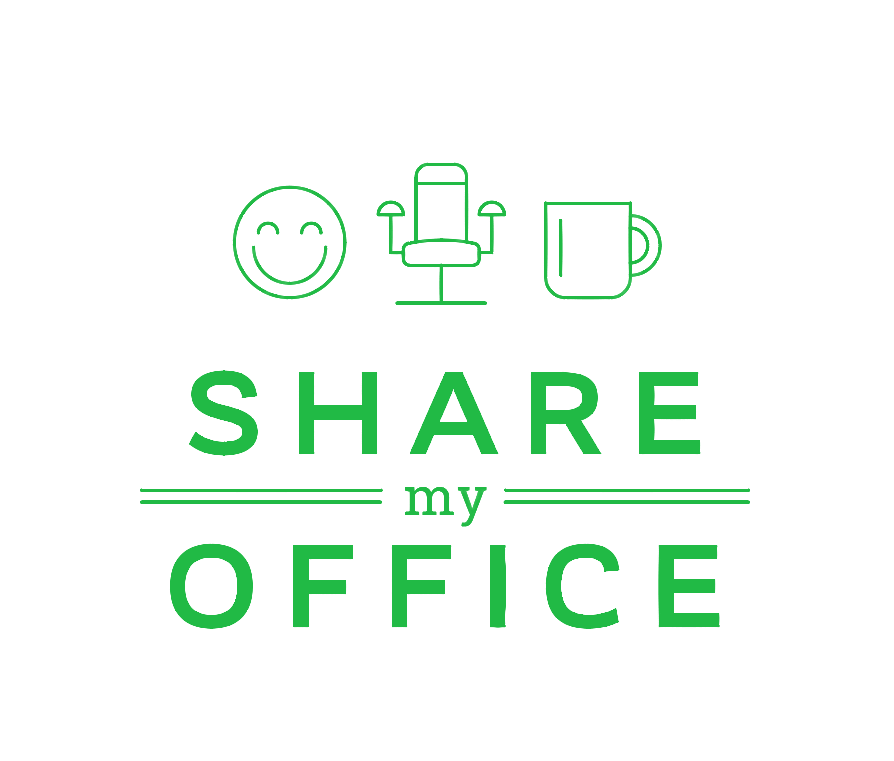
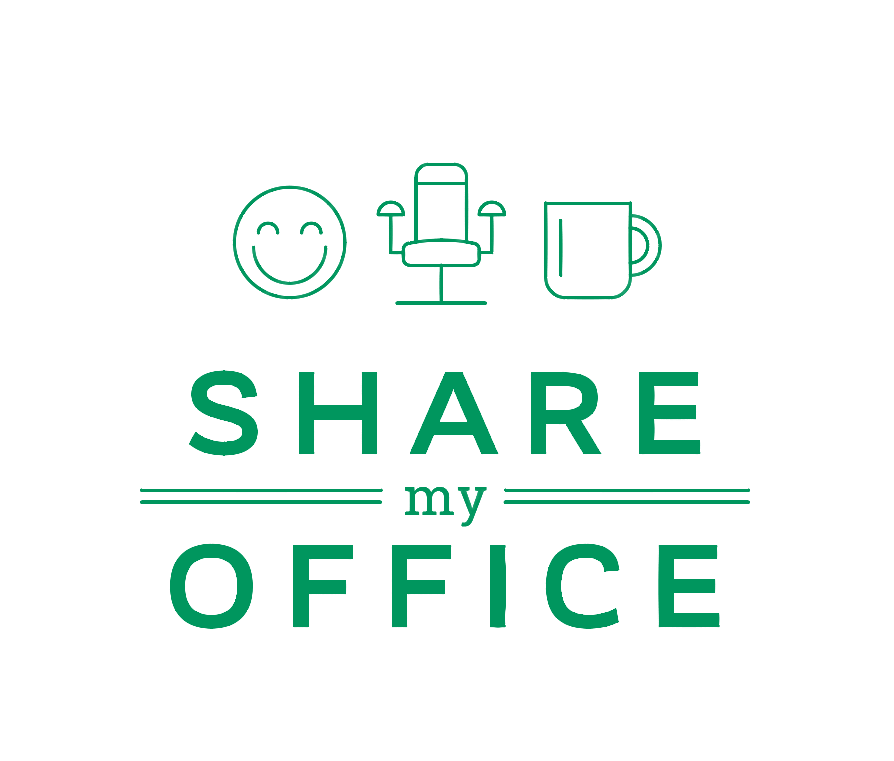
bnpp green

diff --git a/client/templates/office/office_script.js b/client/templates/office/office_script.js
@@ -25,23 +25,25 @@ Template.office.onRendered(function () {
       }
       return availability.available === true;
     });
-    let opens = availability.startTime.split(':');
-    let min = moment().startOf('day').add(opens[0], 'hours').add(opens[1], 'minutes').toDate();
-    let closes = availability.endTime.split(':');
-    let startMax = moment().startOf('day').add(closes[0], 'hours').add(closes[1], 'minutes').subtract(30, 'minutes').toDate();
-    let endMax = moment().startOf('day').add(closes[0], 'hours').add(closes[1], 'minutes').toDate();
-    let startTimeInput = $('#startTime').pickatime({
-      formatLabel: 'Commence à H:i',
-      min: min,
-      max: startMax,
-    });
-    startTimePicker = startTimeInput.pickatime('picker');
-    let endTimeInput = $('#endTime').pickatime({
-      formatLabel: 'F!in!i à H:i',
-      min: min,
-      max: endMax,
-    });
-    endTimePicker = endTimeInput.pickatime('picker');
+    if (availability) {
+      let opens = availability.startTime.split(':');
+      let min = moment().startOf('day').add(opens[0], 'hours').add(opens[1], 'minutes').toDate();
+      let closes = availability.endTime.split(':');
+      let startMax = moment().startOf('day').add(closes[0], 'hours').add(closes[1], 'minutes').subtract(30, 'minutes').toDate();
+      let endMax = moment().startOf('day').add(closes[0], 'hours').add(closes[1], 'minutes').toDate();
+      let startTimeInput = $('#startTime').pickatime({
+        formatLabel: 'Commence à H:i',
+        min: min,
+        max: startMax,
+      });
+      startTimePicker = startTimeInput.pickatime('picker');
+      let endTimeInput = $('#endTime').pickatime({
+        formatLabel: 'F!in!i à H:i',
+        min: min,
+        max: endMax,
+      });
+      endTimePicker = endTimeInput.pickatime('picker');
+    }
   }
 });
 
@@ -64,8 +66,10 @@ Template.office.helpers({
         }
         return availability.available === true;
       });
-      availability.date = moment(availability.date).format('YYYY-MM-DD');
-      return availability;
+      if (availability) {
+        availability.date = moment(availability.date).format('YYYY-MM-DD');
+        return availability;
+      }
     }
     return '';
   },

diff --git a/client/templates/office/officeMap/officeMap_script.js b/client/templates/office/officeMap/officeMap_script.js
@@ -1,0 +1,59 @@
+Template.officeMap.onRendered( function () {
+  let tmpl = this;
+  let officeId = Router.current().params.officeId;
+  let office = Offices.findOne({_id: officeId});
+  if (office && office.address) {
+
+    VazcoMaps.init({}, function() {
+      tmpl.mapEngine = VazcoMaps.gMaps();
+      tmpl.newMap = new tmpl.mapEngine({
+        div: '#map-canvas',
+        lat: 49.17682,
+        lng: -0.35400,
+        zoom: 16
+      });
+
+      tmpl.mapEngine.geocode({
+        address: office.address,
+        callback: function(results, status) {
+          if (status == 'OK') {
+            let latlng = results[0].geometry.location;
+            if (office && Router.current().lookupTemplate() === 'EditPlace') {
+              Offices.update({_id: officeId},{$set: {loc: { "type": "Point", "coordinates": [latlng.lat(), latlng.lng()] } } });
+            }
+            tmpl.newMap.setCenter(latlng.lat(), latlng.lng());
+            tmpl.newMap.addMarker({
+              lat: latlng.lat(),
+              lng: latlng.lng(),
+              draggable: false,
+              dragend: function() {
+                let point = this.getPosition();
+                tmpl.mapEngine.geocode({location: point, callback: function(results) {
+                  office.address.val(results[0].formatted_address);
+                  tmpl.newMap.setCenter(results[0].geometry.location.lat(), results[0].geometry.location.lng());
+                }});
+              }
+            });
+            // office.address.val(results[0].formatted_address);
+          } else {
+            console.log(status);
+          }
+        }
+      });
+    });
+  }
+});
+
+Template.officeMap.helpers({
+  officeAddress () {
+    let officeId = Router.current().params.officeId;
+    let office = Offices.findOne({_id: officeId});
+    if (office && office.address) {
+      return encodeURI(office.address);
+    }
+    return false;
+  },
+});
+
+Template.officeMap.events({
+});

diff --git a/client/templates/home/home_template.html b/client/templates/home/home_template.html
@@ -2,11 +2,11 @@
   <div class="ui center aligned basic segment homeSegment">
     <img class="ui centered large image" src="/sharemyoffice4-nobg.png">
     {{#unless currentUser}}
-    <br>
+    <h1 class="ui header">Bienvenue sur l'app de partage de bureaux</h1>
     <div class="ui buttons">
-      <a href="/sign-in" class="ui green button">Sign in</a>
-      <div class="or"></div>
-      <a href="/sign-up" class="ui button">Sign up</a>
+      <a href="/sign-in" class="ui green button">Se connecter</a>
+      <div class="or" data-text="ou"></div>
+      <a href="/sign-up" class="ui button">S'inscrire</a>
     </div>
     {{else}}
     <h2 class="ui header">Hello, {{capitalize userName}}.</h2>

diff --git a/client/templates/office/office_template.html b/client/templates/office/office_template.html
@@ -3,8 +3,14 @@
     {{#with office}}
     <div class="office">
       <h3 class="ui header">BUREAU NUMÉRO<label class="ui large horizontal label">{{number}}</label></h3>
+      {{#if isOfficeOwner _id}}
+        <a href="{{pathFor 'editMyOffice' officeId=_id}}" class="editMyOfficeIcon">
+          <i class="large blue write icon"></i>
+        </a>
+      {{/if}}
       <div class="ui sub header">Adresse</div>
       <p>{{{nl2br address}}}</p>
+
       <div class="ui sub header">Capacité de {{capacity}} personne{{plural capacity}}</div>
       {{#unless isAllFalse furnitures}}
         <div class="ui sub header">Equipements</div>

diff --git a/client/templates/myOffice/myOffice_template.html b/client/templates/myOffice/myOffice_template.html
@@ -16,7 +16,7 @@
             <i class="large blue write icon"></i>
           </a>
         {{/if}}
-        <h4 class="ui header">BUREAU NUMÉRO<label class="ui horizontal label">{{number}}</label></h4>
+        <a class="ui small header" href="{{pathFor 'office' officeId=_id}}">BUREAU NUMÉRO<label class="ui horizontal label">{{number}}</label></a>
         <div class="ui sub header">Adresse</div>
         <p>{{{nl2br address}}}</p>
         <div class="ui sub header">Capacité de {{capacity}} personne{{plural capacity}}</div>

diff --git a/client/templates/_commons/header/header_script.js b/client/templates/_commons/header/header_script.js
@@ -21,6 +21,7 @@ Template.header.onRendered(function () {
   $('.main-container, .topHeader, .bottomFooter').swipe({
     //Generic swipe handler for all directions
     swipe:function(event, direction, distance, duration, fingerCount, fingerData) {
+      console.log('Swiped ' + direction);
       if (direction === 'right') {
         $('.mainSidebar').sidebar('show');
       }

diff --git a/client/templates/_commons/footer/footer_template.html b/client/templates/_commons/footer/footer_template.html
@@ -1,5 +1,5 @@
 <template name='footer'>
-  <div class="ui bottom fixed borderless mini menu bottomFooter">
+  <div class="ui green bottom fixed borderless mini menu bottomFooter">
     <a class="middle aligned item" href="https://group.bnpparibas/" target="_blanck">
       <img src="/logo_bnp.jpg" class="ui tiny image">&nbsp;
     </a>

diff --git a/client/templates/office/officeMap/officeMap_template.html b/client/templates/office/officeMap/officeMap_template.html
@@ -1,0 +1,6 @@
+<template name='officeMap'>
+  <div id="map-canvas" class="map-canvas"></div>
+  <p class="text-center">
+    <a href="http://maps.google.com/?q={{placeAddress}}" target="_blank" class="btn btn-info btn-sm">Ouvrir dans Google Map</a>
+  </p>
+</template>

diff --git a/client/main.css b/client/main.css
@@ -9,3 +9,9 @@ html.ios, html.ios body {
   padding-bottom: 3rem;
   overflow-y: auto !important;
 }
+.inverted.green {
+  background-color: #00965E !important;
+}
+.basic.green {
+  color: #00965E !important;
+}

diff --git a/client/templates/_commons/footer/footer_style.css b/client/templates/_commons/footer/footer_style.css
@@ -1,0 +1,4 @@
+.bottomFooter {
+  border-top: 4px solid #00965E !important;
+
+}
